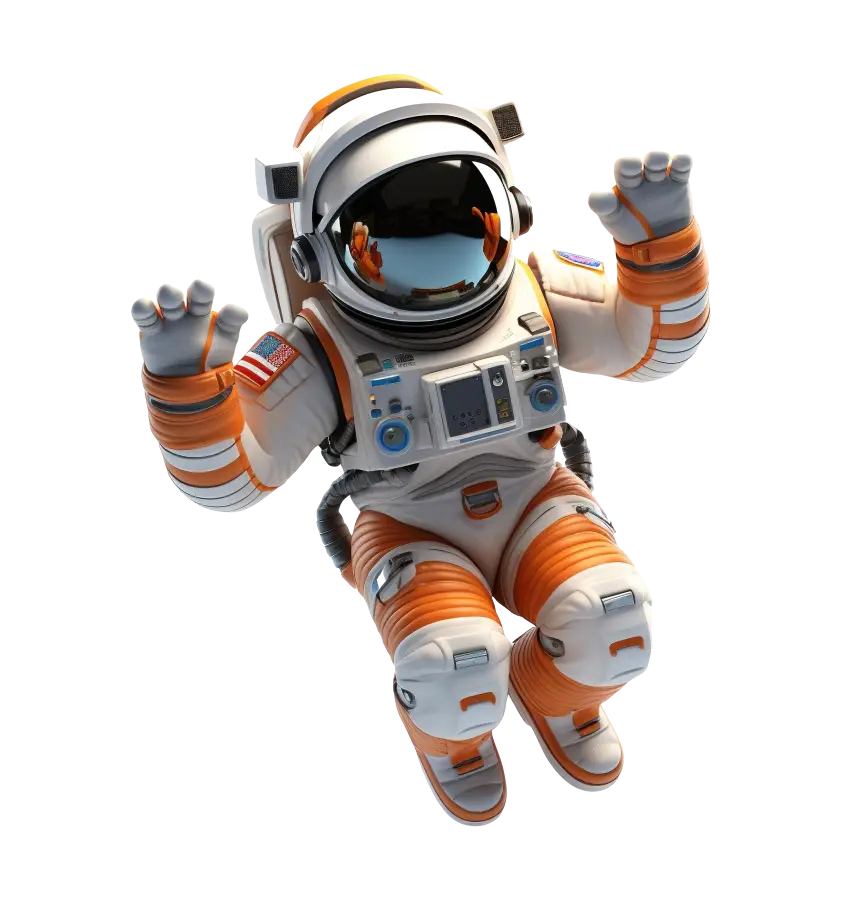
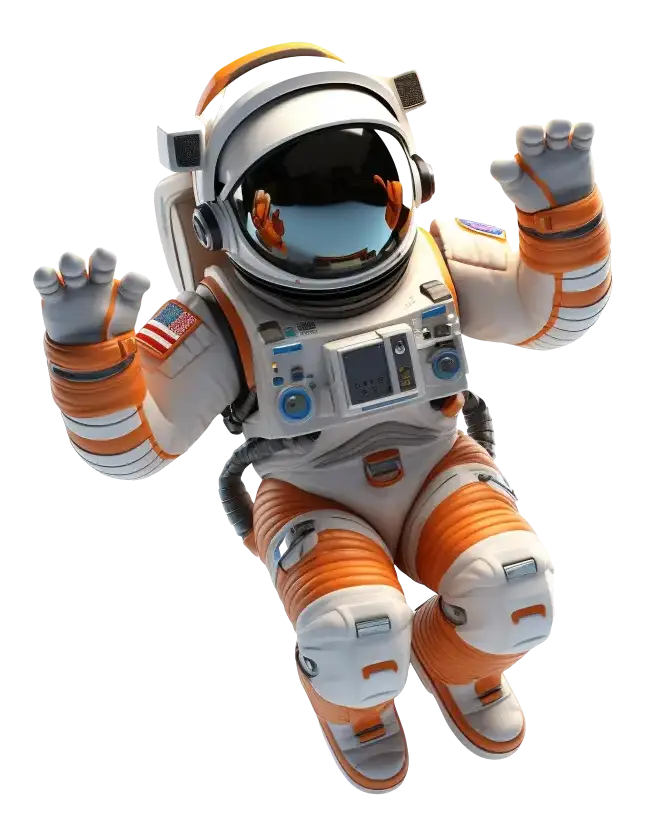
Making Error404Page

diff --git a/src/components/Error404/Error404.css b/src/components/Error404/Error404.css
@@ -4,72 +4,127 @@
 
 .errorSection{
     width:100%;
-    height:100%;
+    height:auto;
     background-image: url(../img/outerspace.webp);
     background-position: cover;
     background-repeat: no-repeat;
-    background-size: 100%;
+    background-size: cover;
     background-attachment: fixed;
+    object-fit: cover;
     display: flex;
     flex-direction: row;
     flex-wrap: nowrap;
-    justify-content: space-around;
+    justify-content: center;
     align-items: center;
     overflow: hidden;
+    margin: 0px auto;
+    position:relative;
+}
+.errorSection .earth{
+    width:2%;
+    overflow: visible;
+    position:absolute;
+    top:50px;
+    left:50px;
+    animation: earth 10s linear infinite;
+}
+@keyframes earth{
+    0%{
+        transform: scale(100%) translateY(20px) rotate(0deg);
+        filter: drop-shadow(0 0 3px #747474) grayscale(70%);
+    }
+    25%{
+        transform: scale(150%) translateY(0px) rotate(90deg);
+        filter: drop-shadow(1px 1px 6px #747474) grayscale(60%);
+    }
+    50%{
+        transform: scale(200%)translateY(20px) rotate(180deg);
+        filter: drop-shadow(2px 2px 12px #747474) grayscale(20%);
+    }
+    75%{
+        transform: scale(150%) translateY(0px) rotate(270deg);
+        filter: drop-shadow(1px 1px 6px #747474) grayscale(60%);
+    }
+    100%{
+        transform: scale(100%)translateY(20px) rotate(360deg) ;
+        filter: drop-shadow(0 0 3px #747474) grayscale(70%);
+    }
 }
 .errorSection .image,
 .errorSection .info {
     width:50%;
-    padding:20px;
 }
 .errorSection .image .astronaut{
-    width:100%;
-    animation: astronaut 2s linear infinite;
+    width:80%;
+    object-fit: cover;
+    overflow: visible;
+    z-index: 99;
+    filter: drop-shadow(0 0 3px black);
+    transform: scale(0%);
+    animation: astronaut 12s linear infinite;
 }
 @keyframes astronaut{
     0%{
-        transform: translateY(30px);
+        transform: translate(150px, -20px) rotate(0deg);
+        filter: drop-shadow(0 0 3px #747474);
     }
     25%{
-        transform: translateY(60px);
+        transform: translate(150px, 45px) rotate(10deg);
+        filter: drop-shadow(1px 1px 6px #747474);
     }
     50%{
-        transform: translateY(100px);
+        transform: translate(150px, 120px) rotate(20deg);
+        filter: drop-shadow(2px 2px 12px #747474);
     }
     75%{
-        transform: translateY(60px);
+        transform: translate(150px, 85px) rotate(10deg);
+        filter: drop-shadow(1px 1px 6px #747474);
     }
     100%{
-        transform: translateY(30px);
+        transform: translate(150px, -20px) rotate(0deg);
+        filter: drop-shadow(0 0 3px #747474);
     }
 }
 .errorSection .info{
     display: flex;
     flex-direction: column;
-    flex-wrap: nowrap;
+    justify-content: center;
     align-items: center;
     gap:30px;
 }
-.errorSection .info h1 .fourZeroFour{
+.errorSection .info .infoSection{
+    display: flex;
+    flex-direction: row;
+    align-items: center;
+}
+.errorSection .info .infoSection .fourZeroFour{
     color: #ffffff;
     font-size: 18rem;
-    font-weight: 500px;
+    font-weight: 500;
     font-family: 'Ubuntu', sans-serif;
-
+    text-align: center;
+    overflow: hidden;
+    z-index: 0;
+}
+.errorSection .info .infoSection .fourZeroFour:nth-child(1){
+    transform: rotate(-15deg);
+}
+.errorSection .info .infoSection .fourZeroFour:nth-child(3){
+    transform: rotate(15deg);
 }
 .errorSection .info .construction{
     color: #ffffff;
     font-size: 3rem;
-    font-weight: 500px;
+    font-weight: 500;
     font-family: 'Expletus Sans', sans-serif;
-
+    text-align: center;
 }
 .errorSection .info .backToHome{
     width: 40%;
     padding: 15px;
     color: #ffffff;
     font-size:1rem;
-    font-weight:700px ;
+    font-weight:700;
     font-family: 'Ubuntu', sans-serif;
     background-color: #FF5207;
     border-radius: 10px;
@@ -80,6 +135,6 @@
 .errorSection .info .backToHome:hover{
     color: #FF5207;
     background-color: #ffffff;
-    box-shadow: 1px 1px 6px 2px #747474;
+    box-shadow:1px 1px 26px 3px #b0b0b0;
 }
 

diff --git a/src/components/Error404/Error404.jsx b/src/components/Error404/Error404.jsx
@@ -4,15 +4,16 @@ import { Link } from "react-router-dom";
 const Error404 = () => {
     return (
         <section className="errorSection">
+            <img  className="earth" src="../img/earth.webp" alt="Eath" />
             <div className="image">
                 <img className="astronaut" src="../img/astronaut.webp" alt="Astronaut" />
             </div>
             <div className="info">
-                <h1>
+                <div className="infoSection">
                     <span className="fourZeroFour">4</span>
                     <span className="fourZeroFour">0</span>
                     <span className="fourZeroFour">4</span>
-                </h1>
+                </div>
                 <h4 className="construction">Page not found</h4>
                 <Link className="backToHome" to="/">
                     Back to home
